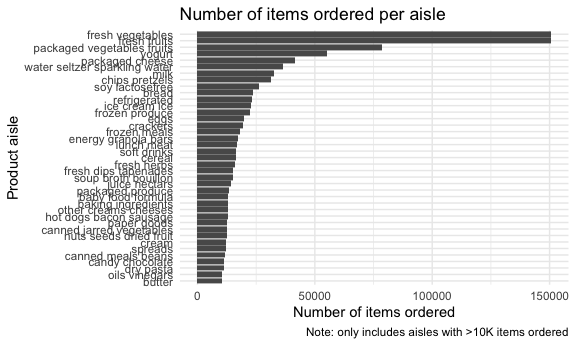
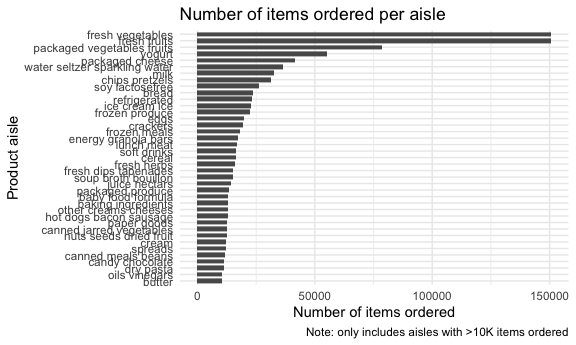
Cleaned up graphs

Changed region(s): [[0.3438, 0.087, 0.9688, 0.2609], [0.3438, 0.2899, 0.4375, 0.8116]]

diff --git a/p8105_hw3_zak2132.md b/p8105_hw3_zak2132.md
@@ -248,7 +248,7 @@ orders_by_aisle %>%
             x = aisle,
             y = aisle_obs)
       ) + 
-      geom_bar(stat = "identity", position = position_dodge(width = 0.3)) + 
+      geom_bar(stat = "identity", position = position_dodge(width = 0.9), width= 0.7) + 
       # Flip X and Y axes
       coord_flip() + 
       # Label graph
@@ -284,8 +284,6 @@ instacart %>%
       rename(num_orders = n_obs) %>% 
       knitr::kable()
 ```
-
-    ## `summarise()` has grouped output by 'aisle'. You can override using the `.groups` argument.
 
 | aisle                      | product\_name                                 | num\_orders | product\_rank |
 |:---------------------------|:----------------------------------------------|------------:|--------------:|
@@ -332,8 +330,6 @@ instacart %>%
       ) %>% 
       knitr::kable()
 ```
-
-    ## `summarise()` has grouped output by 'product_name'. You can override using the `.groups` argument.
 
 | product\_name    |   Sunday |   Monday |  Tuesday | Wednesday | Thursday |   Friday | Saturday |
 |:-----------------|---------:|---------:|---------:|----------:|---------:|---------:|---------:|
@@ -633,7 +629,7 @@ brfss_smart2010 %>%
             mean_data_value = mean(data_value)
       ) %>% 
       # Develop spaghetti plot
-      ggplot(aes(x = year, y = mean_data_value, color = state)) + 
+      ggplot(aes(x = year, y = mean_data_value, group = state, color = state)) + 
       geom_line(alpha = 0.4) + 
       geom_point(alpha = 0.4) + 
       labs(
@@ -644,13 +640,13 @@ brfss_smart2010 %>%
       theme(legend.position = "right")
 ```
 
-    ## `summarise()` has grouped output by 'state'. You can override using the `.groups` argument.
-
     ## Warning: Removed 3 row(s) containing missing values (geom_path).
 
     ## Warning: Removed 4 rows containing missing values (geom_point).
 
 <img src="p8105_hw3_zak2132_files/figure-gfm/spaghetti plot change in data_value over time by state-1.png" width="90%" />
+
+The mean data value fluctuates quite a bit over time and across states.
 
 Finally, we can also create a two-panel plot showing, for 2006 and 2010,
 the distribution of `data_value` for responses (“Poor” to “Excellent”)
@@ -916,11 +912,12 @@ across days?
 total_daily_deviation = total_daily %>% 
       mutate(
             deviation = (total_daily_activity - mean(total_daily_activity)) / sd(total_daily_activity)) %>% 
-      filter(abs(deviation) > 1.5)
+      filter(abs(deviation) > 1.5) %>% 
+  knitr::kable()
 ```
 
-We see here a couple of outliers, on days 24 and 31, that are 2.34
-standard deviations below the mean. Interestingly, the
+We see here a couple of outliers – namely, days 24 and 31 – that are
+2.34 standard deviations below the mean. Interestingly, the
 `total_daily_activity` on these days is identical, at 1440. Notably, we
 know from the original tibble that days 24 and 31 are Saturdays. Day 2
 is also pretty low; that’s a Monday.
@@ -965,9 +962,11 @@ ggplot(data = accel_df, aes(x = minute_id, y = activity_count, group = day_id, c
 It’s difficult to discern distinct patterns or draw certain conclusions
 from this graph, which shows perhaps too many data points. We could
 possibly say that this individual has an unusually high amount of
-activity on Friday evenings and on Sunday around the middle of the day,
-as well as an unusually low amount of activity every day of the week
-until several hours into the morning.
+activity on Friday evenings (\~1250 minutes into the day, which is
+between 8pm and 9pm) and on Sunday around 800 minutes into the day
+(about 1-2pm), as well as an unusually low amount of activity every day
+of the week until several hours into the morning (\~400 minutes into the
+day, which is between 6am and 7am).
 
 I would prefer to group by day of week first and then find the mean at a
 given minute during the day, and plot that over time, like so:
@@ -981,7 +980,5 @@ accel_df %>%
       ggplot(aes(x = minute_id, y = mean_per_minute, color = day_of_week)) + 
       geom_line(alpha = 0.8)
 ```
-
-    ## `summarise()` has grouped output by 'day_of_week'. You can override using the `.groups` argument.
 
 <img src="p8105_hw3_zak2132_files/figure-gfm/24h time course but grouped and averaged by day of week-1.png" width="90%" />
